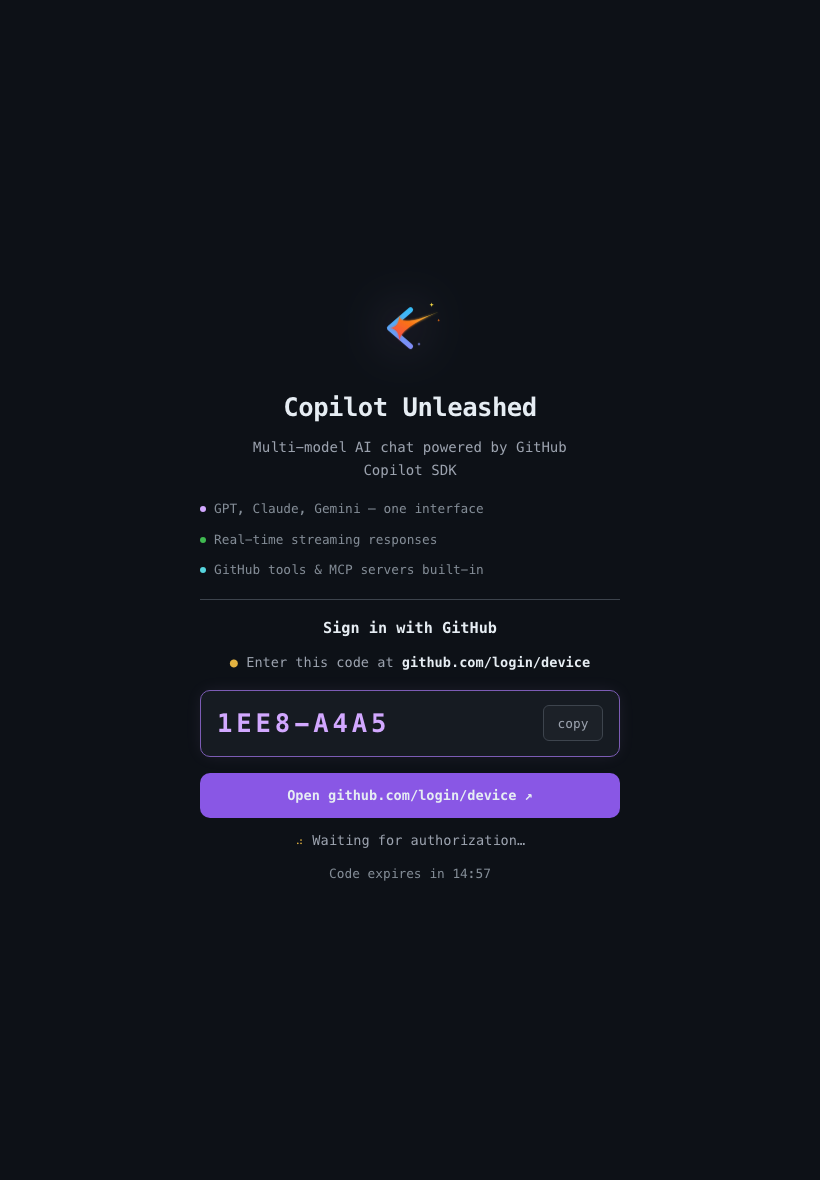
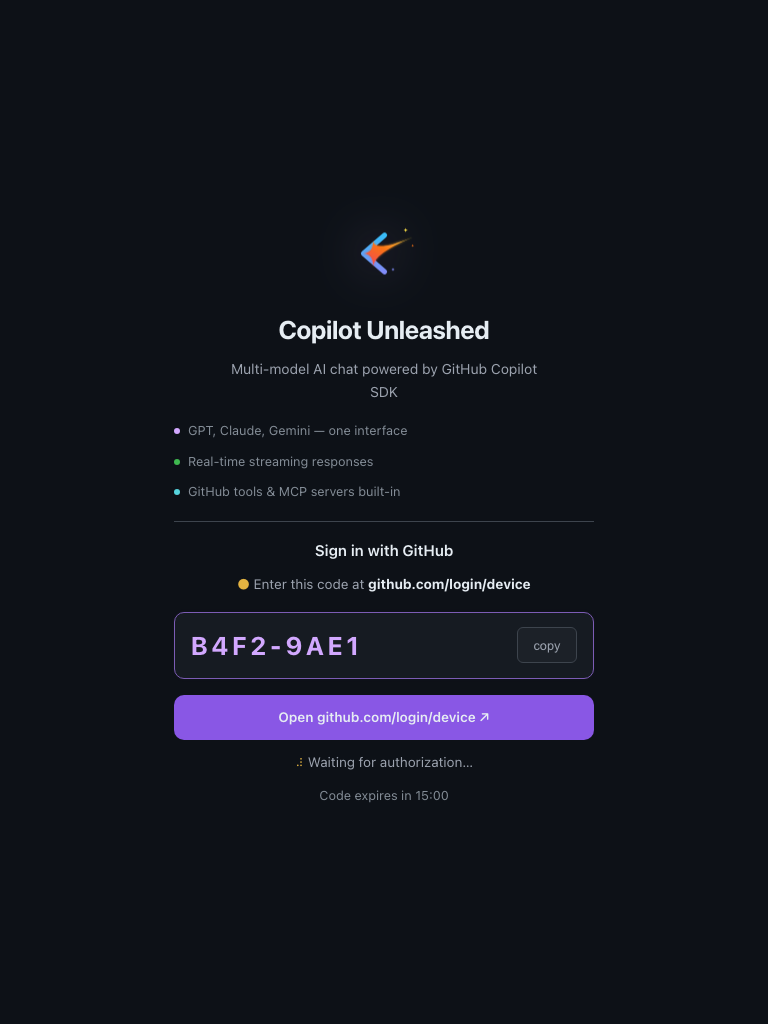
docs: refresh screenshots and add WCAG 2.2 AA accessibility prominence
- Fix screenshots.spec.ts: use '**/ws**' glob to match WS URL with query params
- Regenerate all 12 screenshots (desktop/tablet/mobile) with new modernized UI
- README: add WCAG 2.2 AA accessibility badge
- README: expand accessibility feature entry with concrete details
- README: update screenshots section — replace stale chat-*.png refs,
  add full desktop+mobile screenshot grid

Changed region(s): [[0.2188, 0.2188, 0.7812, 0.7812]]

diff --git a/tests/screenshots.spec.ts b/tests/screenshots.spec.ts
@@ -81,19 +81,17 @@ for (const vp of VIEWPORTS) {
 // ── Use-case screens ──────────────────────────────────────────────────────────
 
 async function openChat(browser: Browser, viewport: { width: number; height: number }) {
-  const ctx = await browser.newContext({ viewport });
+  const ctx = await browser.newContext({ viewport, serviceWorkers: 'block' });
   const page = await ctx.newPage();
 
   // Intercept SSR HTML: patch embedded SvelteKit data to set authenticated=true with user
-  await page.route('/', async (route) => {
+  await page.route((url) => url.pathname === '/', async (route) => {
     const response = await route.fetch();
     let html = await response.text();
-    // Replace the embedded data payload in the SvelteKit script block
     html = html.replace(
-      /data:\{authenticated:false,user:null\}/g,
-      'data:{authenticated:true,user:{login:"devartifex",name:"Dev Artifex"}}',
+      /authenticated:false,user:null/g,
+      'authenticated:true,user:{login:"devartifex",name:"Dev Artifex"}',
     );
-    // Also remove the login screen HTML so Svelte hydration matches
     await route.fulfill({ response, body: html });
   });
 
@@ -134,7 +132,7 @@ for (const vp of VIEWPORTS) {
 
     const { page, ctx } = await openChat(browser, vp);
 
-    await page.routeWebSocket('**/ws', (ws) => {
+    await page.routeWebSocket('**/ws**', (ws) => {
       ws.send(JSON.stringify({ type: 'connected', user: 'devartifex' }));
 
       ws.onMessage((data) => {
@@ -212,7 +210,7 @@ for (const vp of VIEWPORTS) {
 
     const { page, ctx } = await openChat(browser, vp);
 
-    await page.routeWebSocket('**/ws', (ws) => {
+    await page.routeWebSocket('**/ws**', (ws) => {
       ws.send(JSON.stringify({ type: 'connected', user: 'devartifex' }));
 
       ws.onMessage((data) => {
@@ -295,7 +293,7 @@ for (const vp of VIEWPORTS) {
 
     const { page, ctx } = await openChat(browser, vp);
 
-    await page.routeWebSocket('**/ws', (ws) => {
+    await page.routeWebSocket('**/ws**', (ws) => {
       ws.send(JSON.stringify({ type: 'connected', user: 'devartifex' }));
 
       ws.onMessage((data) => {

diff --git a/README.md b/README.md
@@ -14,6 +14,7 @@
   <a href="LICENSE"><img src="https://img.shields.io/badge/license-MIT-green" alt="MIT License"></a>
   <img src="https://img.shields.io/badge/copilot--sdk-v0.2.0-8A2BE2?logo=github" alt="Copilot SDK v0.2.0">
   <img src="https://img.shields.io/badge/Docker-ready-2496ED?logo=docker&logoColor=white" alt="Docker">
+  <img src="https://img.shields.io/badge/accessibility-WCAG%202.2%20AA-0057B8?logo=accessibility" alt="WCAG 2.2 AA accessible">
   <a href="https://github.com/devartifex/copilot-unleashed/commits"><img src="https://img.shields.io/github/last-commit/devartifex/copilot-unleashed" alt="Last Commit"></a>
   <a href="https://github.com/devartifex/copilot-unleashed/stargazers"><img src="https://img.shields.io/github/stars/devartifex/copilot-unleashed?style=social" alt="Stars"></a>
 </p>
@@ -46,7 +47,7 @@
 - **Push notifications** — Web Push alerts when the browser is closed; full PWA support
 - **Plan & Fleet mode** — editable execution plans with disk sync; multi-agent parallel execution
 - **Quota tracking** — premium request usage, remaining balance, and reset date
-- **Mobile-first dark UI** — WCAG AA accessible, touch-optimized, reduced-motion support
+- **Accessible & responsive** — WCAG 2.2 AA compliant: semantic landmarks, keyboard navigation, visible focus rings, screen-reader labels, sufficient colour contrast, and reduced-motion support across all views and viewports
 - **Self-hosted** — your data never leaves your server; deploy with Docker or `azd up`
 
 ---
@@ -241,22 +242,41 @@ Device Flow OAuth (same as GitHub CLI). Tokens are server-side only, never sent 
 <details>
 <summary><strong>Screenshots</strong></summary>
 
+**Desktop**
+
 <table>
 <tr>
-<td><img src="docs/screenshots/usecase-reasoning-desktop.png" width="480" alt="Extended reasoning with live thinking trace"></td>
-<td><img src="docs/screenshots/usecase-code-desktop.png" width="480" alt="Code generation with syntax highlighting"></td>
+<td><img src="docs/screenshots/usecase-autopilot-desktop.png" width="480" alt="Autopilot agent — reads a GitHub issue, plans, codes, runs tests, and opens a PR"></td>
+<td><img src="docs/screenshots/usecase-reasoning-desktop.png" width="480" alt="Extended reasoning — live collapsible thinking trace"></td>
 </tr>
 <tr>
+<td align="center"><em>Autopilot agent — issue → PR, zero intervention</em></td>
 <td align="center"><em>Extended thinking — live reasoning trace</em></td>
+</tr>
+<tr>
+<td><img src="docs/screenshots/usecase-code-desktop.png" width="480" alt="Code generation with syntax highlighting"></td>
+<td><img src="docs/screenshots/login-desktop.png" width="480" alt="GitHub Device Flow login screen"></td>
+</tr>
+<tr>
 <td align="center"><em>Code generation with syntax highlighting</em></td>
+<td align="center"><em>GitHub Device Flow login</em></td>
+</tr>
+</table>
+
+**Mobile & Tablet**
+
+<table>
+<tr>
+<td><img src="docs/screenshots/usecase-autopilot-mobile.png" width="220" alt="Autopilot agent on mobile"></td>
+<td><img src="docs/screenshots/usecase-code-mobile.png" width="220" alt="Code generation on mobile"></td>
+<td><img src="docs/screenshots/usecase-reasoning-mobile.png" width="220" alt="Extended reasoning on mobile"></td>
+<td><img src="docs/screenshots/login-mobile.png" width="220" alt="Login on mobile"></td>
 </tr>
 <tr>
-<td><img src="docs/screenshots/chat-desktop.png" width="480" alt="Chat desktop UI"></td>
-<td><img src="docs/screenshots/chat-mobile.png" width="200" alt="Mobile chat UI"></td>
-</tr>
-<tr>
-<td align="center"><em>Clean desktop interface</em></td>
-<td align="center"><em>Touch-optimized mobile</em></td>
+<td align="center"><em>Autopilot</em></td>
+<td align="center"><em>Code gen</em></td>
+<td align="center"><em>Reasoning</em></td>
+<td align="center"><em>Login</em></td>
 </tr>
 </table>
 
